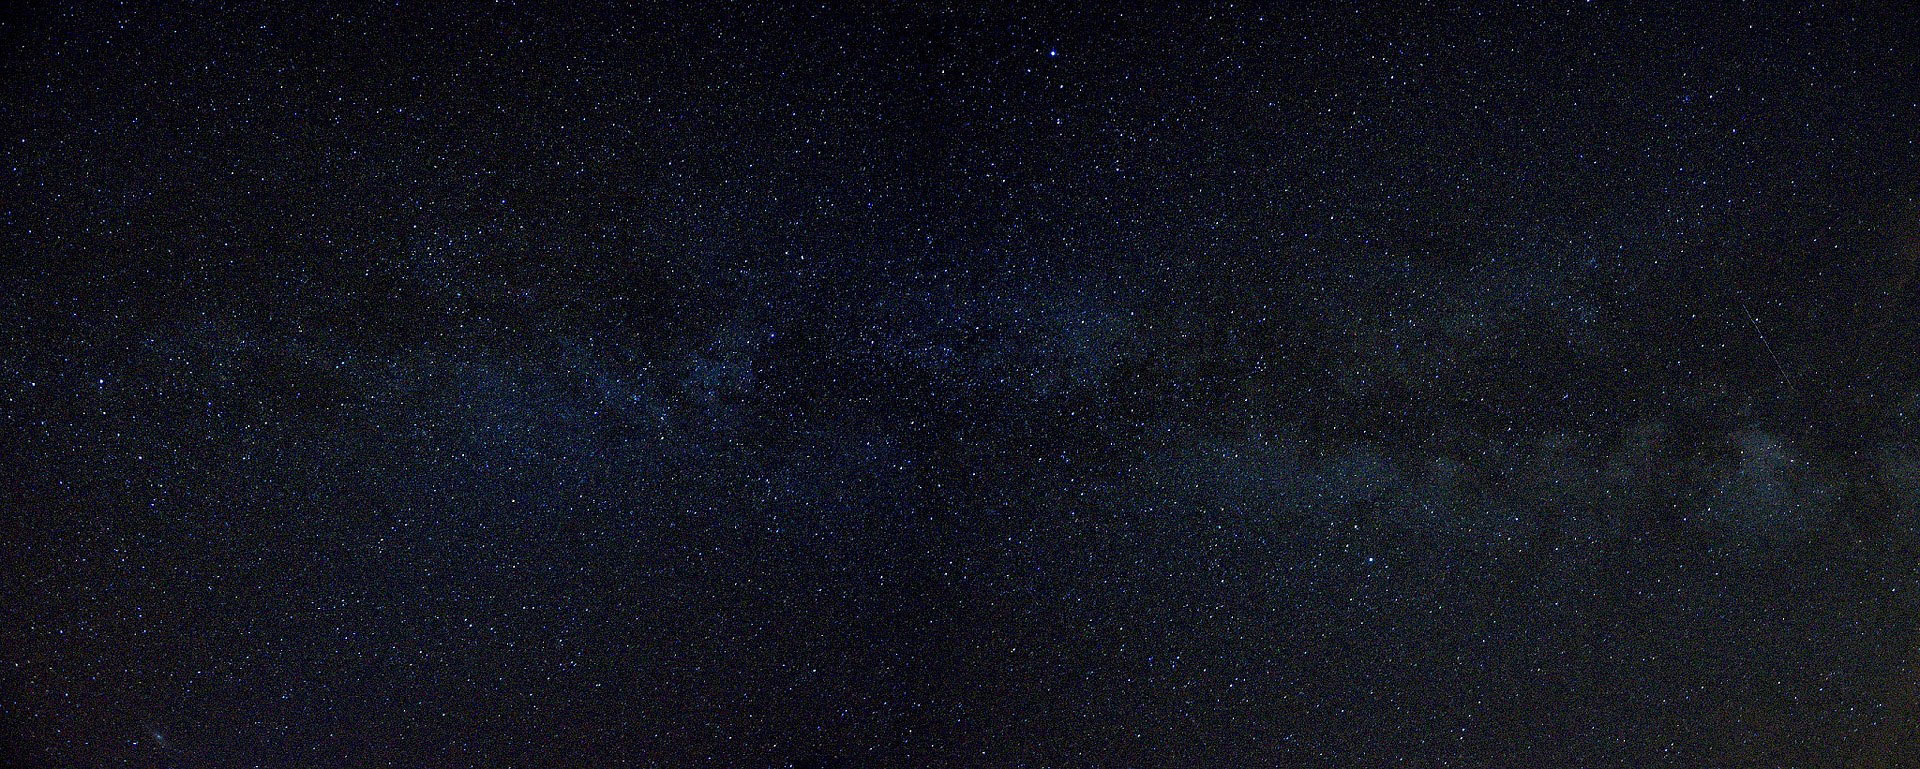
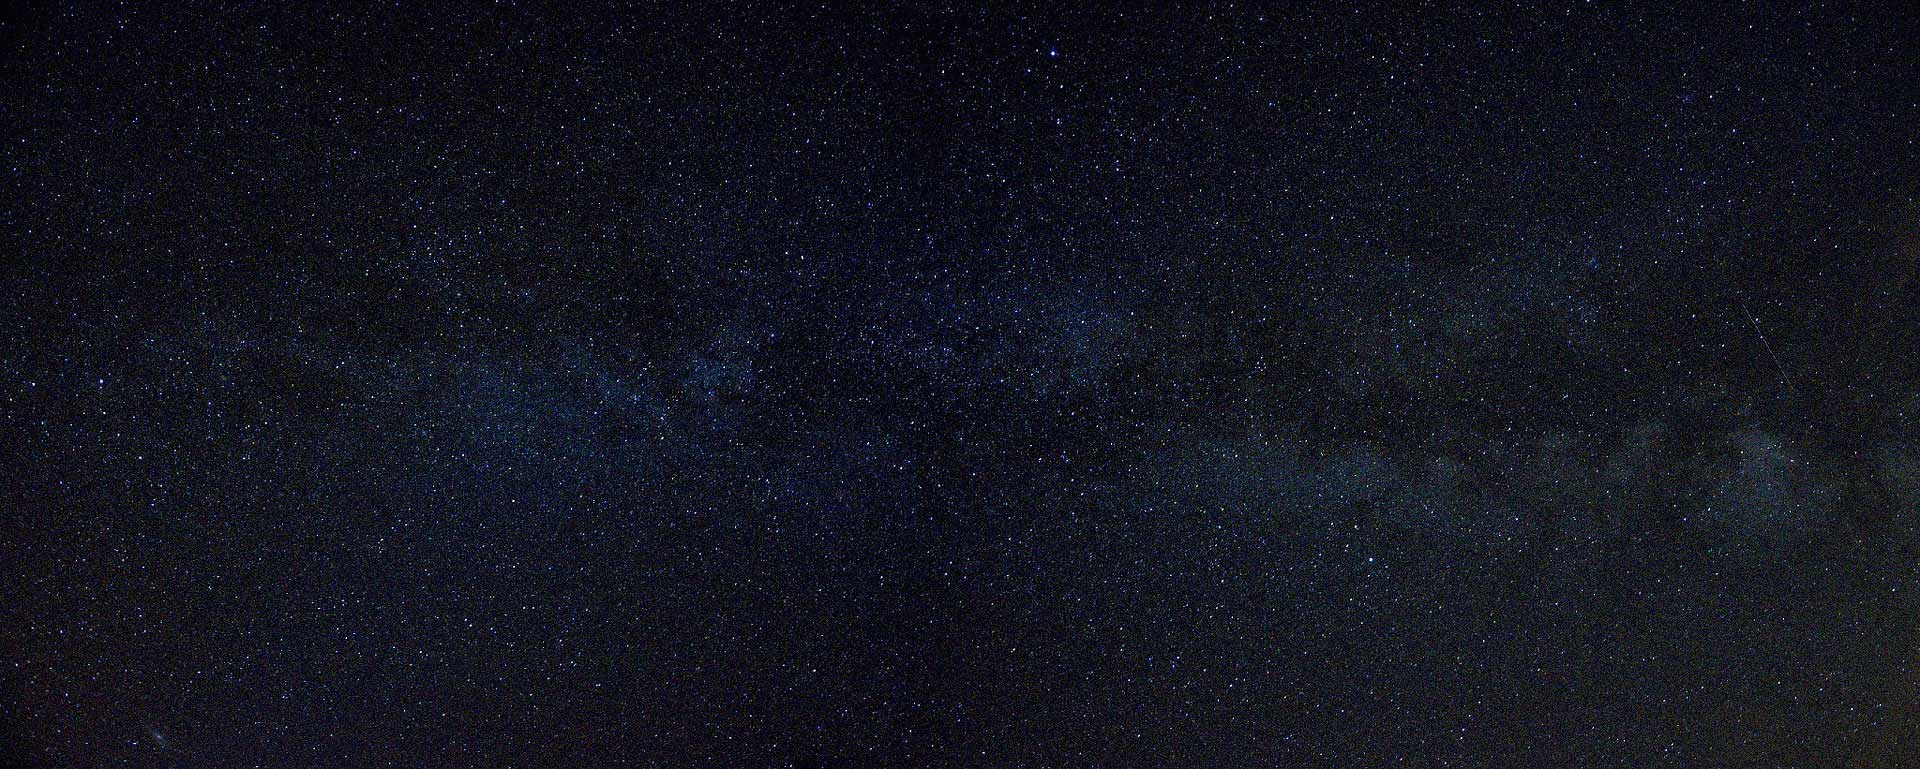
Add files via upload

diff --git a/css/estilos.css b/css/estilos.css
@@ -86,7 +86,7 @@ body{
 	position:relative;
 	width: 100%;
 	height: 100vh;
-	background: url(../img/header01.jpg);
+	background: url(../img/header.jpg);
 	background-attachment: fixed;
 	background-position: center;
 	background-size: cover;
@@ -97,7 +97,7 @@ body{
 	left: 0;
 	width: 100%;
 	height: 100%;
-	background: rgba(0,0,0,0.4);
+	background: rgba(0,0,0,0.5);
 	display:flex;
 	justify-content: center;
 	align-items: center;
@@ -146,7 +146,7 @@ body{
 	width: 60%;
 	margin:auto;
 }
-.proyectos .contenedorProyectos .tituloProyectos h1{
+.proyectos .contenedorProyectos .tituloProyectos h2{
 	font-size: 50px;
 	color:var(--grisOscuro);
 	font-weight: lighter;
@@ -189,7 +189,7 @@ body{
 	width: 60%;
 	margin:auto;
 }
-.apps .appsContenedor .appsTitulo h1{
+.apps .appsContenedor .appsTitulo h2{
 	font-size: 50px;
 	color:var(--grisClaro);
 	font-weight: lighter;
@@ -234,7 +234,7 @@ body{
 	align-items: center;
 	flex-direction: column;
 }
-.frase .fraseImg h4{
+.frase .fraseImg h3{
 	width: 80%;
 	color:var(--grisClaro);
 	font-size: 40px;

diff --git a/css/styles.css b/css/styles.css
@@ -77,7 +77,7 @@
 	.imgHeader .welcome p{
 		font-size: 20px;
 	}
-	.proyectos .contenedorProyectos .tituloProyectos h1{
+	.proyectos .contenedorProyectos .tituloProyectos h2{
 		font-size: 35px;
 	}
 	.proyectos .contenedorProyectos .proyectosIMG img{
@@ -86,7 +86,7 @@
 	.proyectos .contenedorProyectos .proyectosIMG img:hover{
 		transform: none;
 	}
-	.frase .fraseImg h4{
+	.frase .fraseImg h3{
 		font-size: 25px;
 	}
 	.frase .fraseImg p{
@@ -114,7 +114,7 @@
 		display: block;
 		margin:auto;
 	}
-	.apps .appsContenedor .appsTitulo h1{
+	.apps .appsContenedor .appsTitulo h2{
 		font-size: 35px;
 	}
 	.apps .appsContenedor .appsImg img{
